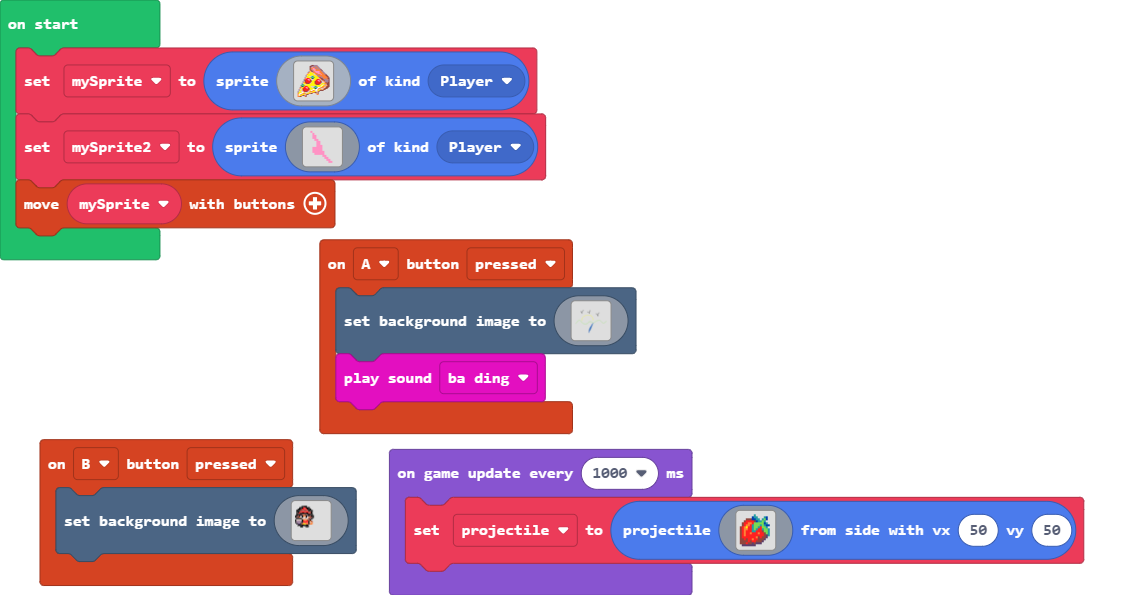
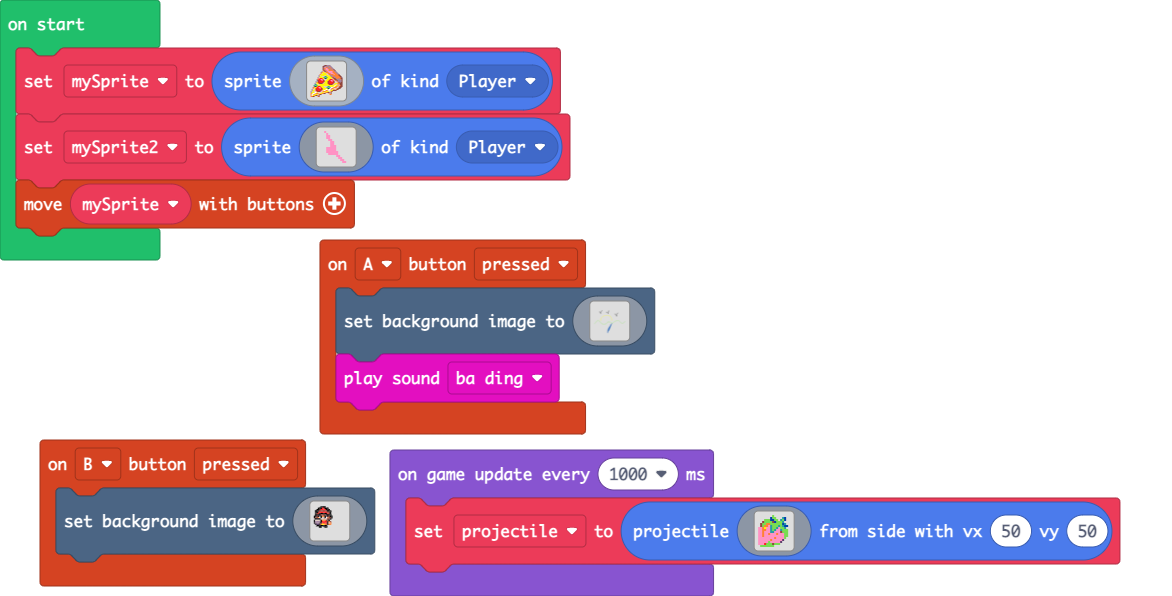
Update main.blocks, main.ts, images.g.jres, images.g.ts

diff --git a/main.ts b/main.ts
@@ -207,21 +207,21 @@ let mySprite2 = sprites.create(img`
 controller.moveSprite(mySprite)
 game.onUpdateInterval(1000, function () {
     projectile = sprites.createProjectileFromSide(img`
-        . . . . . . . 6 . . . . . . . . 
-        . . . . . . 8 6 6 . . . 6 8 . . 
-        . . . e e e 8 8 6 6 . 6 7 8 . . 
-        . . e 2 2 2 2 e 8 6 6 7 6 . . . 
-        . e 2 2 4 4 2 7 7 7 7 7 8 6 . . 
-        . e 2 4 4 2 6 7 7 7 6 7 6 8 8 . 
-        e 2 4 5 2 2 6 7 7 6 2 7 7 6 . . 
-        e 2 4 4 2 2 6 7 6 2 2 6 7 7 6 . 
-        e 2 4 2 2 2 6 6 2 2 2 e 7 7 6 . 
-        e 2 4 2 2 4 2 2 2 4 2 2 e 7 6 . 
-        e 2 4 2 2 2 2 2 2 2 2 2 e c 6 . 
-        e 2 2 2 2 2 2 2 4 e 2 e e c . . 
-        e e 2 e 2 2 4 2 2 e e e c . . . 
-        e e e e 2 e 2 2 e e e c . . . . 
-        e e e 2 e e c e c c c . . . . . 
-        . c c c c c c c . . . . . . . . 
+        . . . . . . . 7 . . . . . . . . 
+        . . . . . . 8 7 7 . . . 6 8 . . 
+        . . . 7 7 7 8 8 7 7 . 6 7 8 . . 
+        . . e 7 7 7 7 e 8 7 7 7 6 . . . 
+        . e 7 7 4 4 7 7 7 7 7 7 8 6 . . 
+        . e 7 4 4 3 6 7 7 7 6 7 6 8 8 . 
+        3 3 4 5 3 3 6 7 7 6 3 7 7 6 . . 
+        3 3 4 4 3 3 6 7 6 3 3 6 7 7 7 . 
+        3 3 4 3 3 3 6 6 3 3 3 e 7 7 7 . 
+        3 3 4 3 3 4 3 3 3 4 3 3 3 7 7 . 
+        3 3 4 3 3 3 3 3 3 3 3 3 3 7 7 . 
+        3 3 3 3 3 3 3 3 4 3 3 3 3 7 . . 
+        3 3 3 3 3 3 4 3 3 3 3 3 c . . . 
+        3 3 3 3 3 7 3 3 3 3 3 c . . . . 
+        3 3 3 2 7 7 7 e 7 7 7 . . . . . 
+        . 7 7 7 7 7 7 7 . . . . . . . . 
         `, 50, 50)
 })

diff --git a/images.g.ts b/images.g.ts
@@ -204,22 +204,22 @@ fbbbbf2222fd4...........
 ........................
 `;
             case "image5":return img`
-. . . . . . . 6 . . . . . . . . 
-. . . . . . 8 6 6 . . . 6 8 . . 
-. . . e e e 8 8 6 6 . 6 7 8 . . 
-. . e 2 2 2 2 e 8 6 6 7 6 . . . 
-. e 2 2 4 4 2 7 7 7 7 7 8 6 . . 
-. e 2 4 4 2 6 7 7 7 6 7 6 8 8 . 
-e 2 4 5 2 2 6 7 7 6 2 7 7 6 . . 
-e 2 4 4 2 2 6 7 6 2 2 6 7 7 6 . 
-e 2 4 2 2 2 6 6 2 2 2 e 7 7 6 . 
-e 2 4 2 2 4 2 2 2 4 2 2 e 7 6 . 
-e 2 4 2 2 2 2 2 2 2 2 2 e c 6 . 
-e 2 2 2 2 2 2 2 4 e 2 e e c . . 
-e e 2 e 2 2 4 2 2 e e e c . . . 
-e e e e 2 e 2 2 e e e c . . . . 
-e e e 2 e e c e c c c . . . . . 
-. c c c c c c c . . . . . . . . 
+. . . . . . . 7 . . . . . . . . 
+. . . . . . 8 7 7 . . . 6 8 . . 
+. . . 7 7 7 8 8 7 7 . 6 7 8 . . 
+. . e 7 7 7 7 e 8 7 7 7 6 . . . 
+. e 7 7 4 4 7 7 7 7 7 7 8 6 . . 
+. e 7 4 4 3 6 7 7 7 6 7 6 8 8 . 
+3 3 4 5 3 3 6 7 7 6 3 7 7 6 . . 
+3 3 4 4 3 3 6 7 6 3 3 6 7 7 7 . 
+3 3 4 3 3 3 6 6 3 3 3 e 7 7 7 . 
+3 3 4 3 3 4 3 3 3 4 3 3 3 7 7 . 
+3 3 4 3 3 3 3 3 3 3 3 3 3 7 7 . 
+3 3 3 3 3 3 3 3 4 3 3 3 3 7 . . 
+3 3 3 3 3 3 4 3 3 3 3 3 c . . . 
+3 3 3 3 3 7 3 3 3 3 3 c . . . . 
+3 3 3 2 7 7 7 e 7 7 7 . . . . . 
+. 7 7 7 7 7 7 7 . . . . . . . . 
 `;
         }
         return null;
